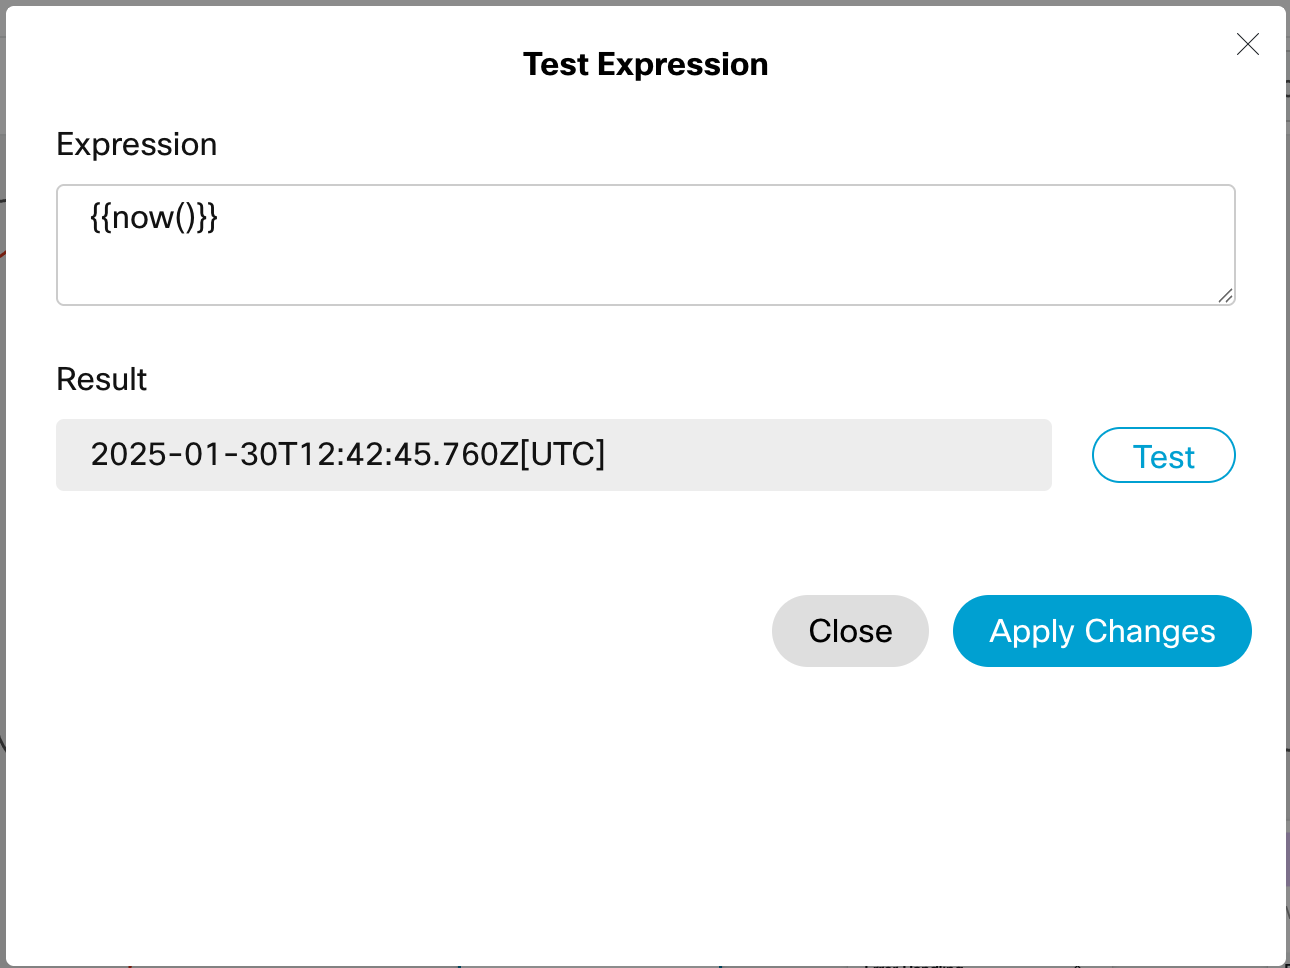
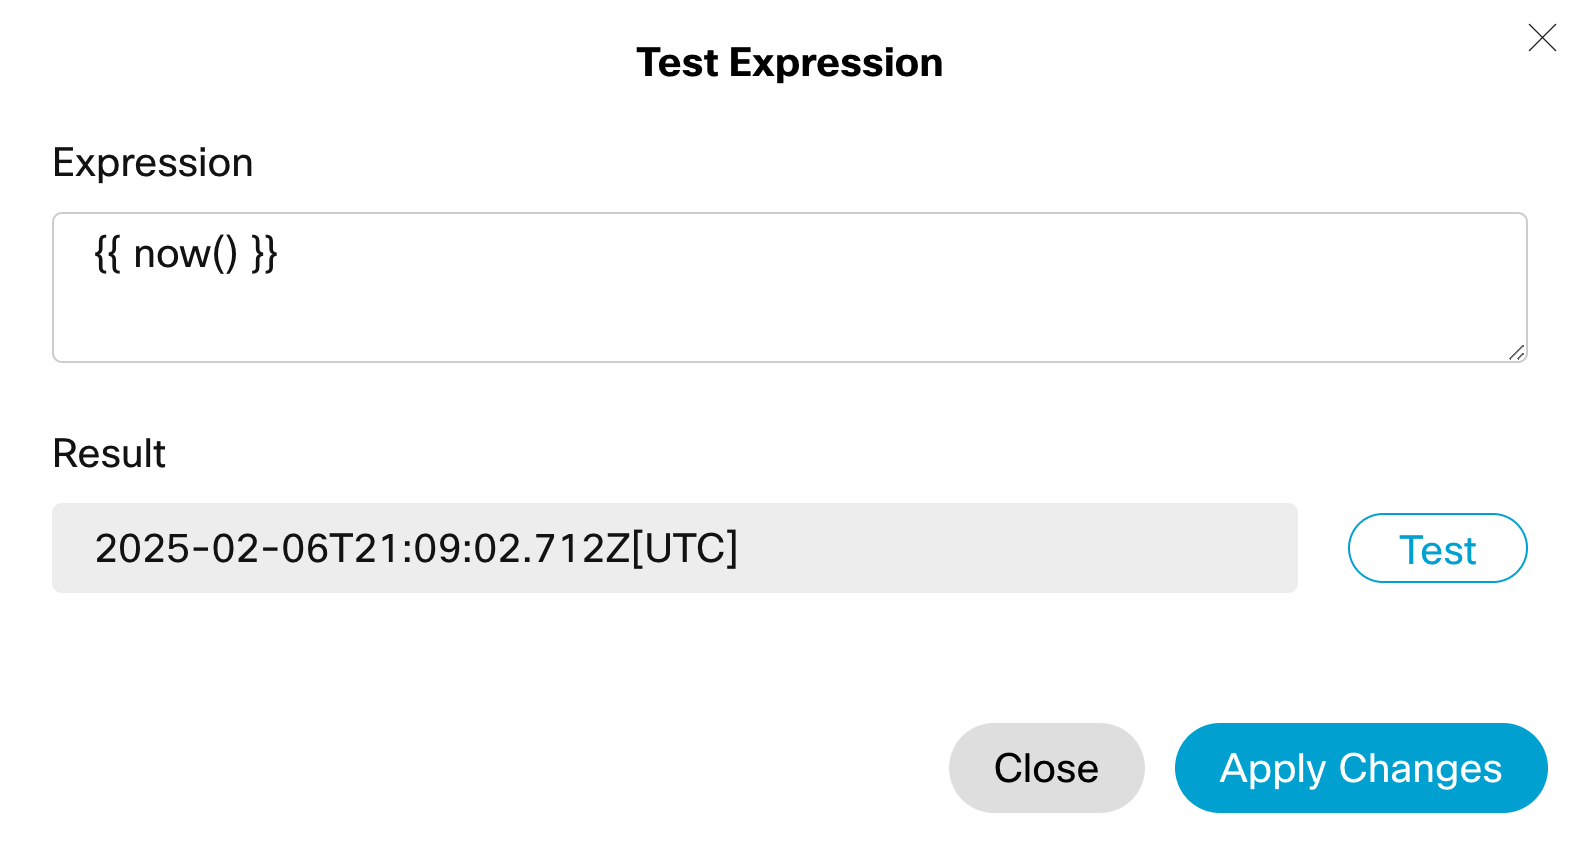
updated now.png

diff --git a/_pages/Pebble.md b/_pages/Pebble.md
@@ -18,11 +18,11 @@ Return the current date and time.
 
 Expression: **`{{ now() }}`**
 
-Result: **`2025-01-30T12:42:45.760Z[UTC]`**
+Result: **`2025-02-06T21:09:02.712Z[UTC]`**
 
 <!-- {%endraw%} -->
 
-<!--img src="/assets/images/Pebbleplayground/now.png" height="400" -->
+<img src="/assets/images/Pebbleplayground/now.png" height="400" />
 
 ## Epoch (Seconds since January 1, 2970 12:00am)
 
@@ -142,7 +142,7 @@ QTime should be a variable set right after the queue contact node in the flow us
 
 <!-- {%raw%} -->
 
-Expression: **`{{ now() |epoch - QTime > VMTimeout }}`**
+Expression: **`{{ now() | epoch - QTime > VMTimeout }}`**
 
 Result: **`true`**
 
